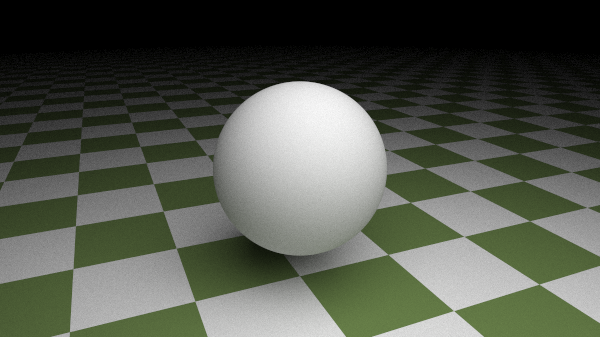
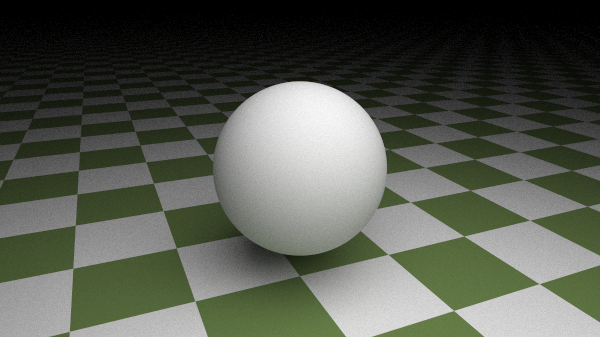
🖼 Switch to "checker" materials using UV coordinates

diff --git a/src/material/texture.rs b/src/material/texture.rs
@@ -60,14 +60,14 @@ impl Checkered {
 }
 
 impl Sample for Checkered {
-    fn sample(&self, _: f64, _: f64, p: Vector3<f64>) -> Vector3<f64> {
-        let x_int = (p.x * self.scale).floor() as i32;
-        let y_int = (p.y * self.scale).floor() as i32;
-        let z_int = (p.z * self.scale).floor() as i32;
+    fn sample(&self, u: f64, v: f64, _: Vector3<f64>) -> Vector3<f64> {
+        let x_int = (u * self.scale).floor() as i32;
+        let y_int = (v * self.scale).floor() as i32;
 
-        match (x_int + y_int + z_int) % 2 {
-            0 => self.even,
-            _ => self.odd,
+        if (x_int + y_int) % 2 == 0 {
+            self.even
+        } else {
+            self.odd
         }
     }
 }

diff --git a/README.md b/README.md
@@ -178,7 +178,7 @@ albedo = [1.0, 0.2, 0.3] # red
 material = "checkered"
 even = [0.2, 0.3, 0.1] # light green
 odd = [0.9, 0.9, 0.9] # white
-scale = 2.0
+scale = 0.2
 ```
 
 - `even`: The color of the even checkered squares.
